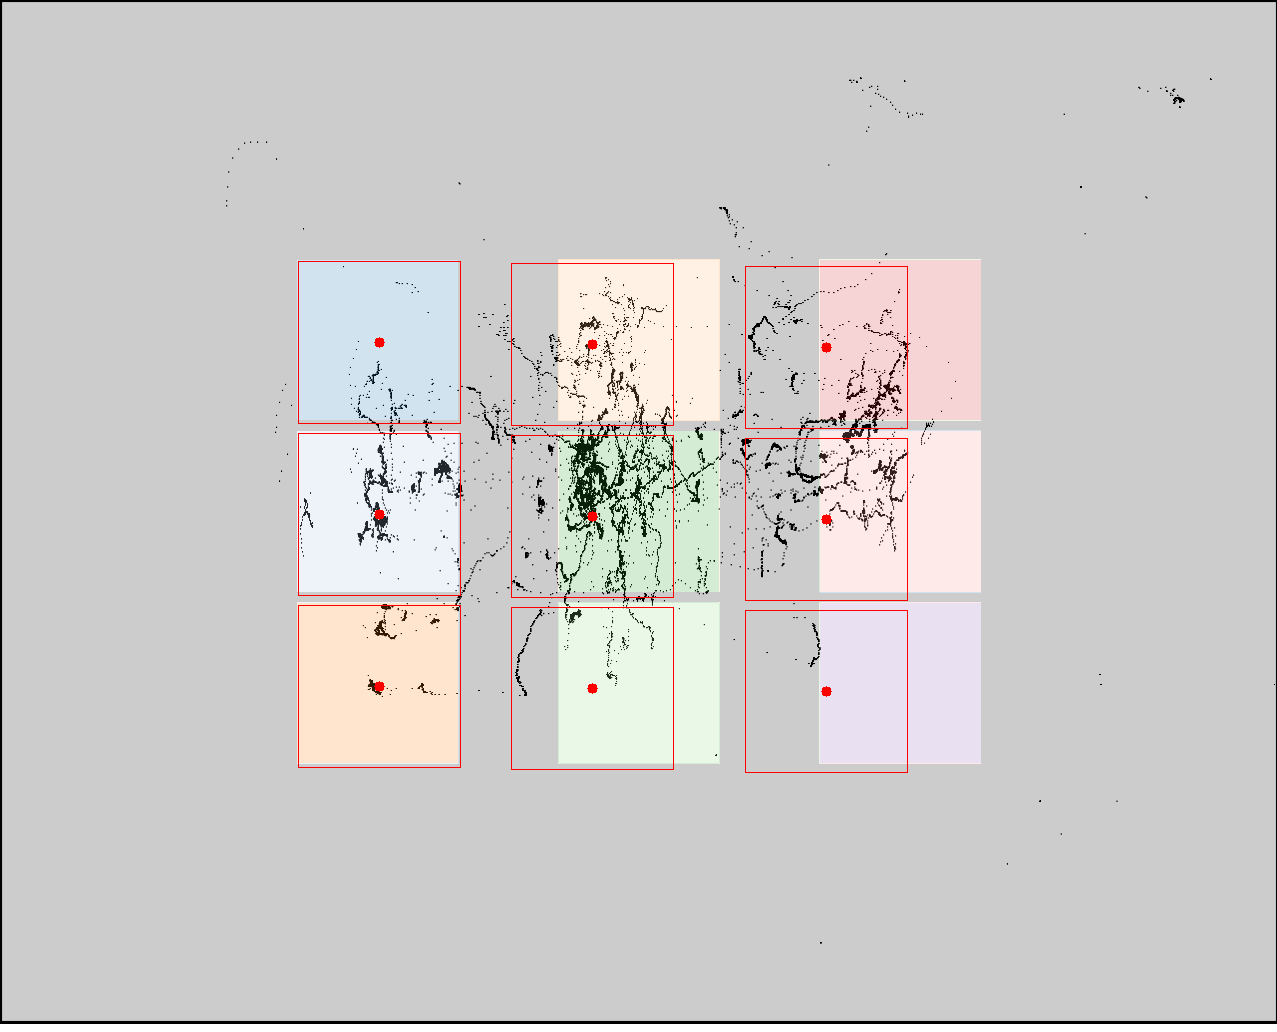
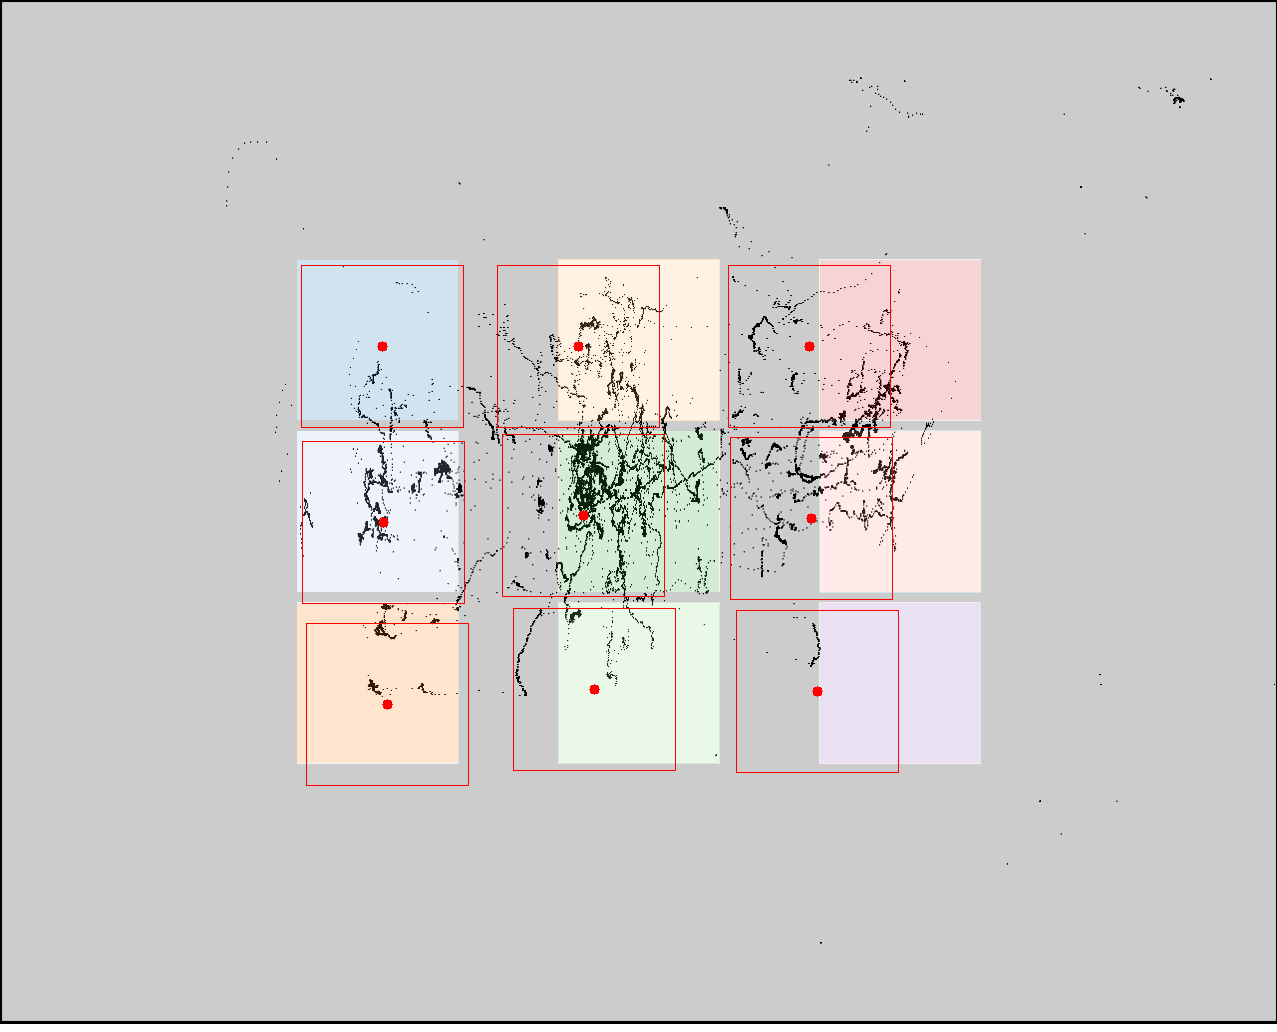
fixed issue with sub30_block_4

diff --git a/labelcenters/averagecenters.py b/labelcenters/averagecenters.py
@@ -18,15 +18,18 @@ def average_centers(input_ar, input_nb):
     df_nb = pd.read_csv(input_nb)
     df_average = df_ar
     for (clickname, point) in df_ar.iteritems():
-        df_average[clickname] = calculate_midpoint(point, df_nb[clickname])
+        df_average[clickname] = calculate_midpoint(df_ar[clickname], df_nb[clickname])
+    print(df_average)
     return df_average  
 
 # calculates midpoint between two top-left corners: x = (x1 + x2) / 2, y = (y1 + y2) / 2
 # returns integer value of coordinates of center of roi
 def calculate_midpoint(point1, point2):
     x = (point1[0] + point2[0])//2
+    print("x: ", str(x))
     y = (point1[1] + point2[1])//2
-    return [x+(aoisidelength//2),y+(aoisidelength//2)]
+    print("y: ", str(y))
+    return [(x+(aoisidelength//2)),(y+(aoisidelength//2))]
         
   
 # driver function
@@ -55,10 +58,10 @@ if __name__=="__main__":
         x = point[0]
         y = point[1]
         # draw a circle over the center of the radius
-        cv2.circle(img, (x,y), radius=5, color=(0, 0, 255), thickness=-1)
+        cv2.circle(img, (x,y), radius=5, color=(0, 0, 255), thickness=1)
 
         # draw a rectangle the size of the ROI
-        cv2.rectangle(img, (x-(aoisidelength//2),y-(aoisidelength//2)), (x+(aoisidelength//2),y+(aoisidelength//2)), color=(0, 0, 255), thickness=1)
+        cv2.rectangle(img, ((x-(aoisidelength//2)),(y-(aoisidelength//2))), ((x+(aoisidelength//2)),(y+(aoisidelength//2))), color=(0, 0, 255), thickness=1)
 
     # uncomment block to show image
     # # displaying the image with average rois overlayed
